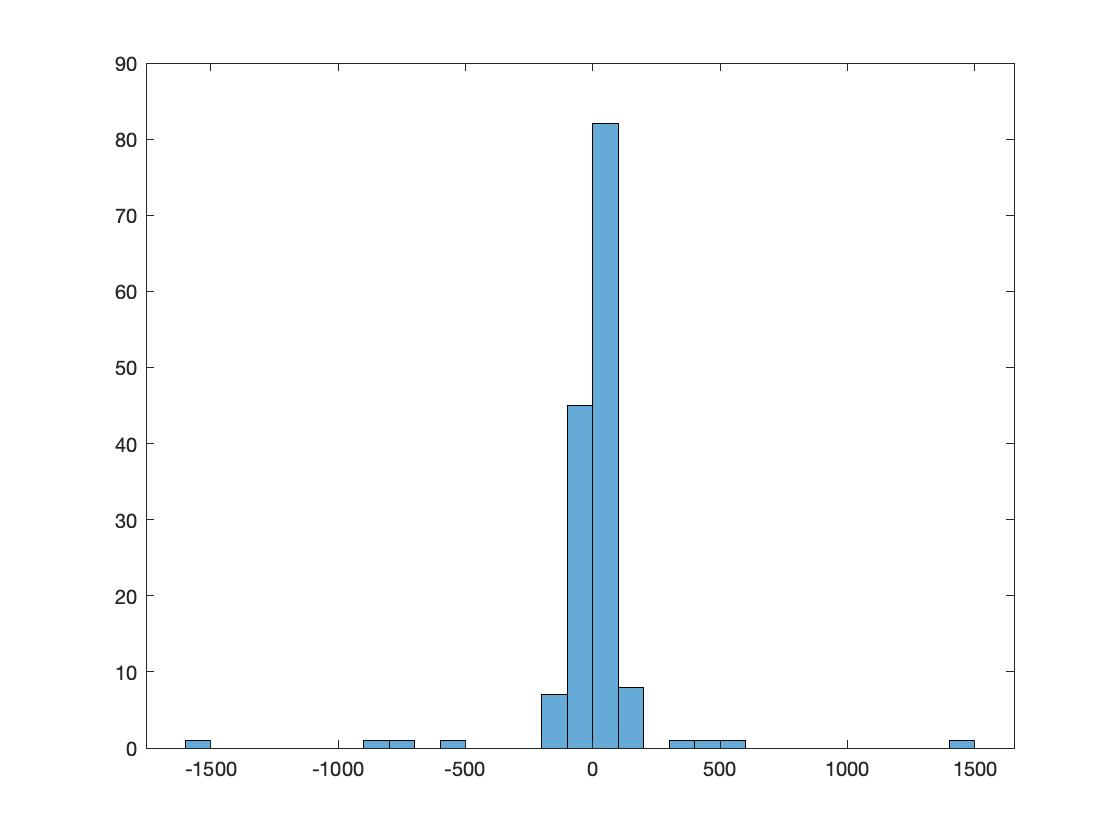
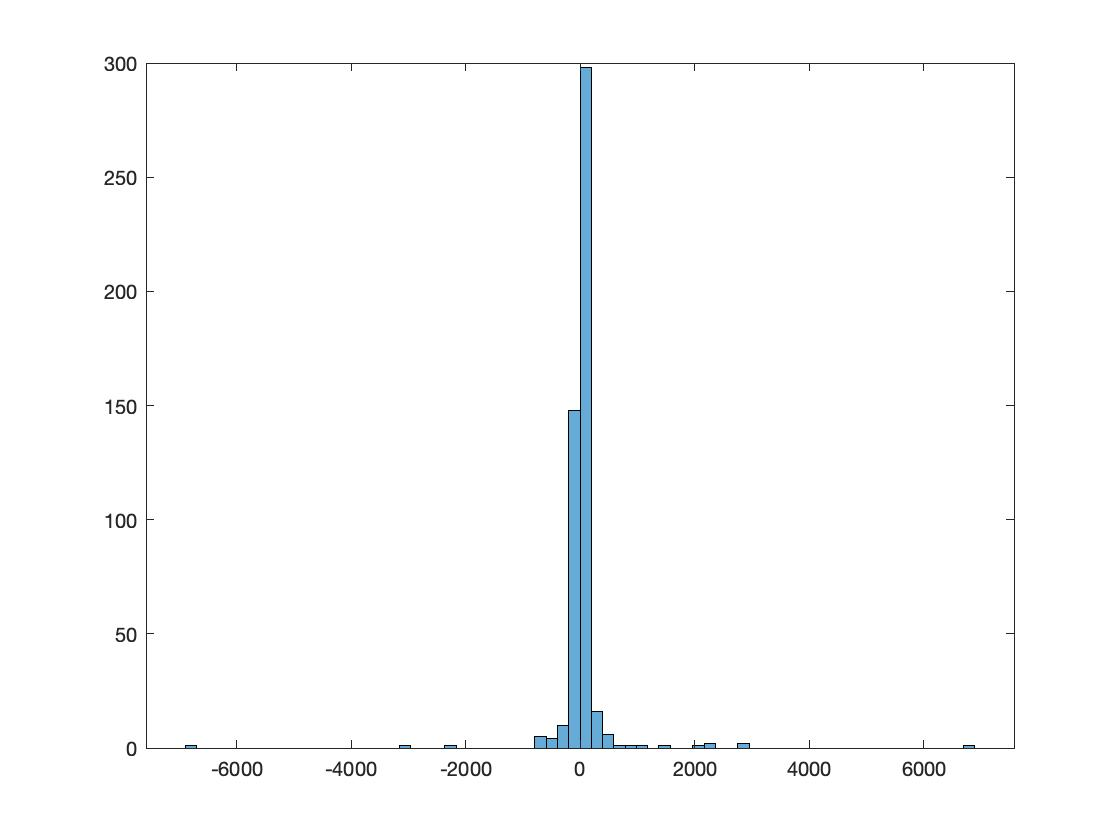
results

diff --git a/Double-slit/auxiliary-functions/trajectory.m b/Double-slit/auxiliary-functions/trajectory.m
@@ -71,14 +71,14 @@ for n=1:p.nimpacts
     end
     
         % Diplay results
-    if mod(n-1,100)==0
-        ui_av = xi - x_data(n,:); vi_av = yi - y_data(n,:);
-        disp(['impact=',num2str(n),'  xi=',num2str(xi),'  yi=',num2str(yi),...
-        '  ui=',num2str(ui_av),'  vi=',num2str(vi_av),...
-        '  |v|=',num2str(sqrt((ui_av).^2+(vi_av).^2)),'  eta_max=',num2str(eta_max),...
-        '  |eta_boundary|=',num2str(max(abs(eta(1,:))))]);
+   % if mod(n-1,100)==0
+    %    ui_av = xi - x_data(n,:); vi_av = yi - y_data(n,:);
+     %   disp(['impact=',num2str(n),'  xi=',num2str(xi),'  yi=',num2str(yi),...
+      %  '  ui=',num2str(ui_av),'  vi=',num2str(vi_av),...
+       % '  |v|=',num2str(sqrt((ui_av).^2+(vi_av).^2)),'  eta_max=',num2str(eta_max),...
+        %'  |eta_boundary|=',num2str(max(abs(eta(1,:))))]);
              %disp(['impact=',num2str(n)]);
-    end
+   % end
     
     t = t+p.impact_interval;
 

diff --git a/Double-slit/double_slit.m b/Double-slit/double_slit.m
@@ -1,7 +1,7 @@
 function [theta_r,x_f,y_f]=double_slit(xi)
 
 %% Set parameters
-mem = 0.995;
+mem = 0.9;
 Gam = mem*4.21;
 Nx = 256; Ny = Nx; 
 Lx = 40; Ly = Lx; dt_desired = min(Lx/Nx,Ly/Ny)/8;
@@ -12,7 +12,7 @@ p = problem_setup_double_slit(Nx,Ny,Lx,Ly,Gam,dt_desired);
 p.xi = xi; p.yi = -10; p.ui =0; p.vi = 0.2;
 % theta = 0*pi/180;
 % p.ui=speed_steady*cos(theta); p.vi = speed_steady*sin(theta);
-p.nimpacts = 700;      % Number of impacts
+p.nimpacts = 600;      % Number of impacts
 %p.l1 = 14.7/4.75/2; % Half of opening length
 p.l1 = 2;
 %p.l1 = 1.55;

diff --git a/Double-slit/double_slit_treatments.m b/Double-slit/double_slit_treatments.m
@@ -2,4 +2,4 @@ vect_dir= [cos(theta) sin(theta)];
 c =-X.^(cos(theta))-Y.^(sin(theta));
 pos_mur = -c - 40*sin(theta);
 pos_mur = pos_mur./cos(theta);
-histogram(real(pos_mur));
+histogram(real(pos_mur),70);

diff --git a/Double-slit/double_slit_measures.m b/Double-slit/double_slit_measures.m
@@ -1,4 +1,4 @@
-n=500;
+n=400;
 x =linspace(1.5,4.5,n);
 theta =[];
 X=[];
